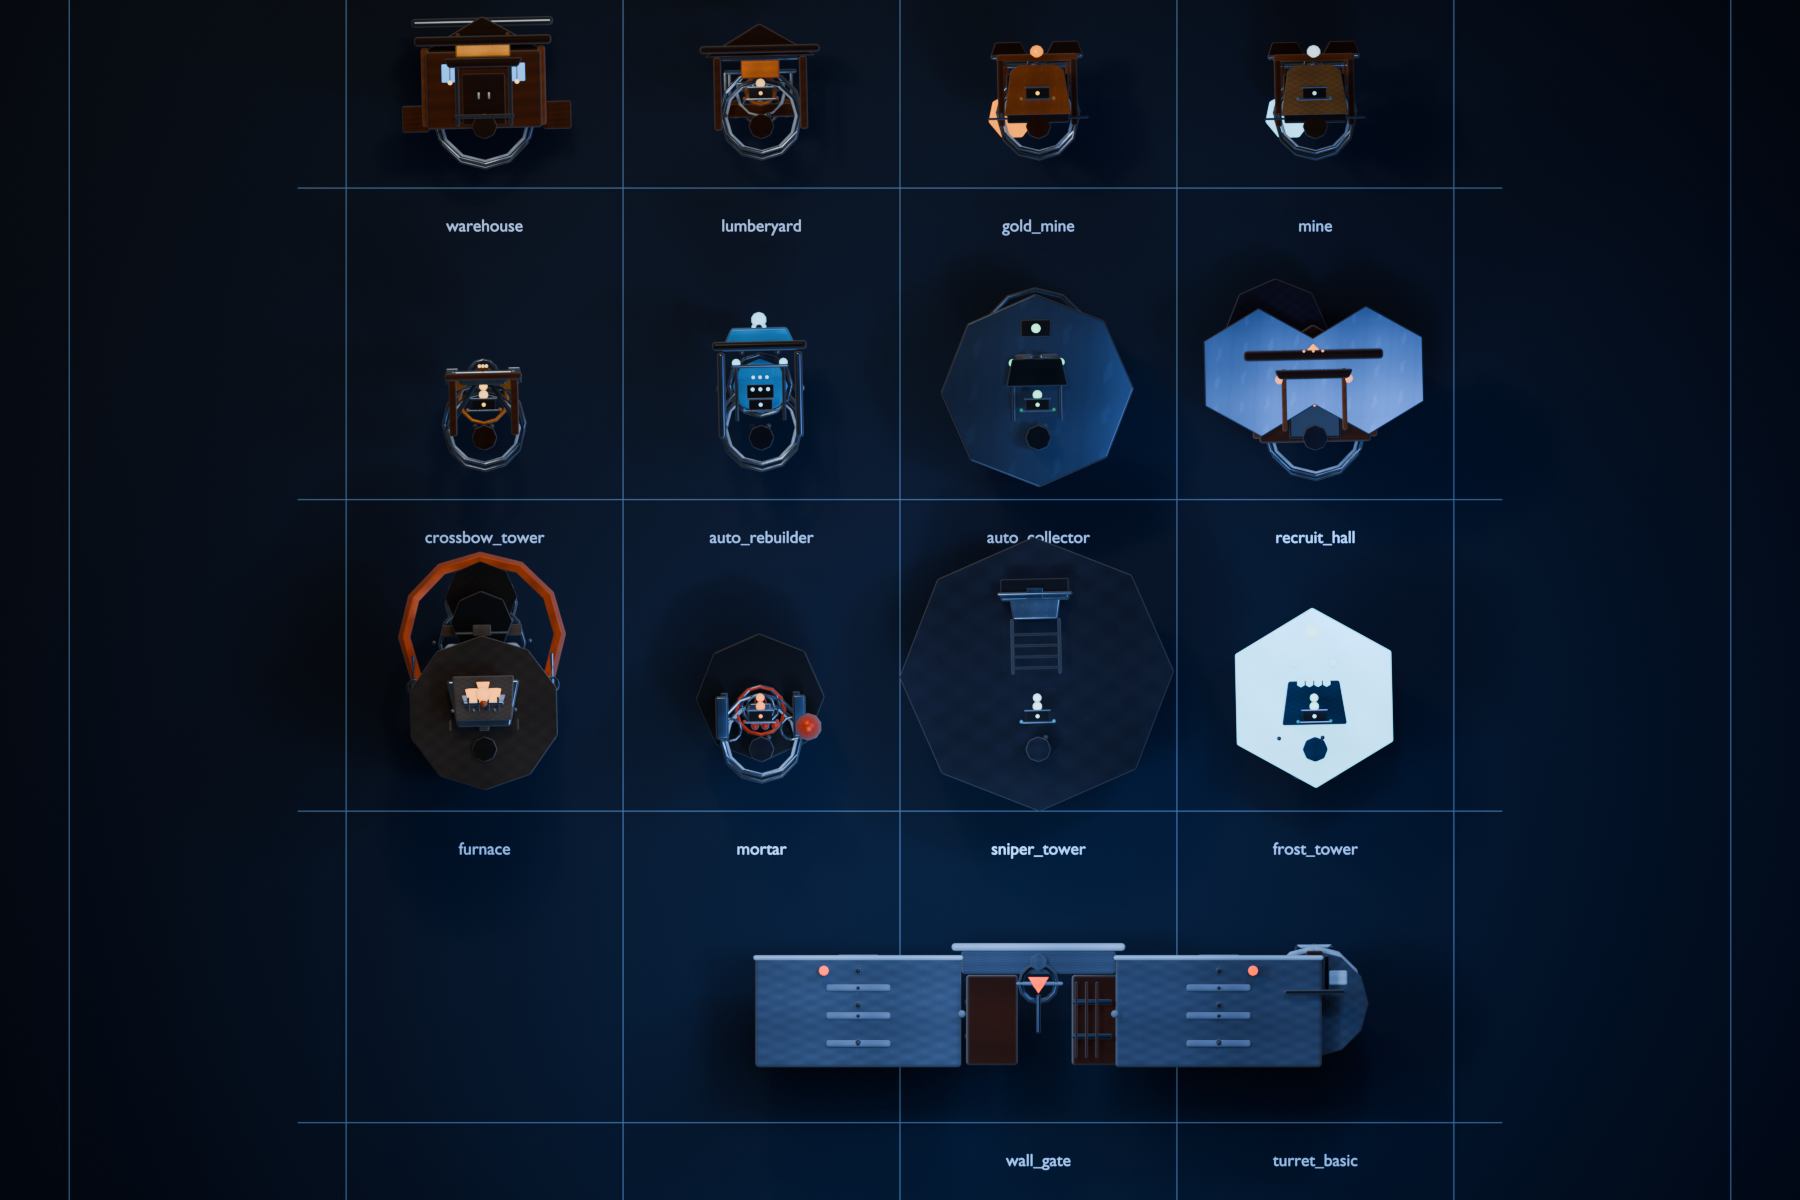
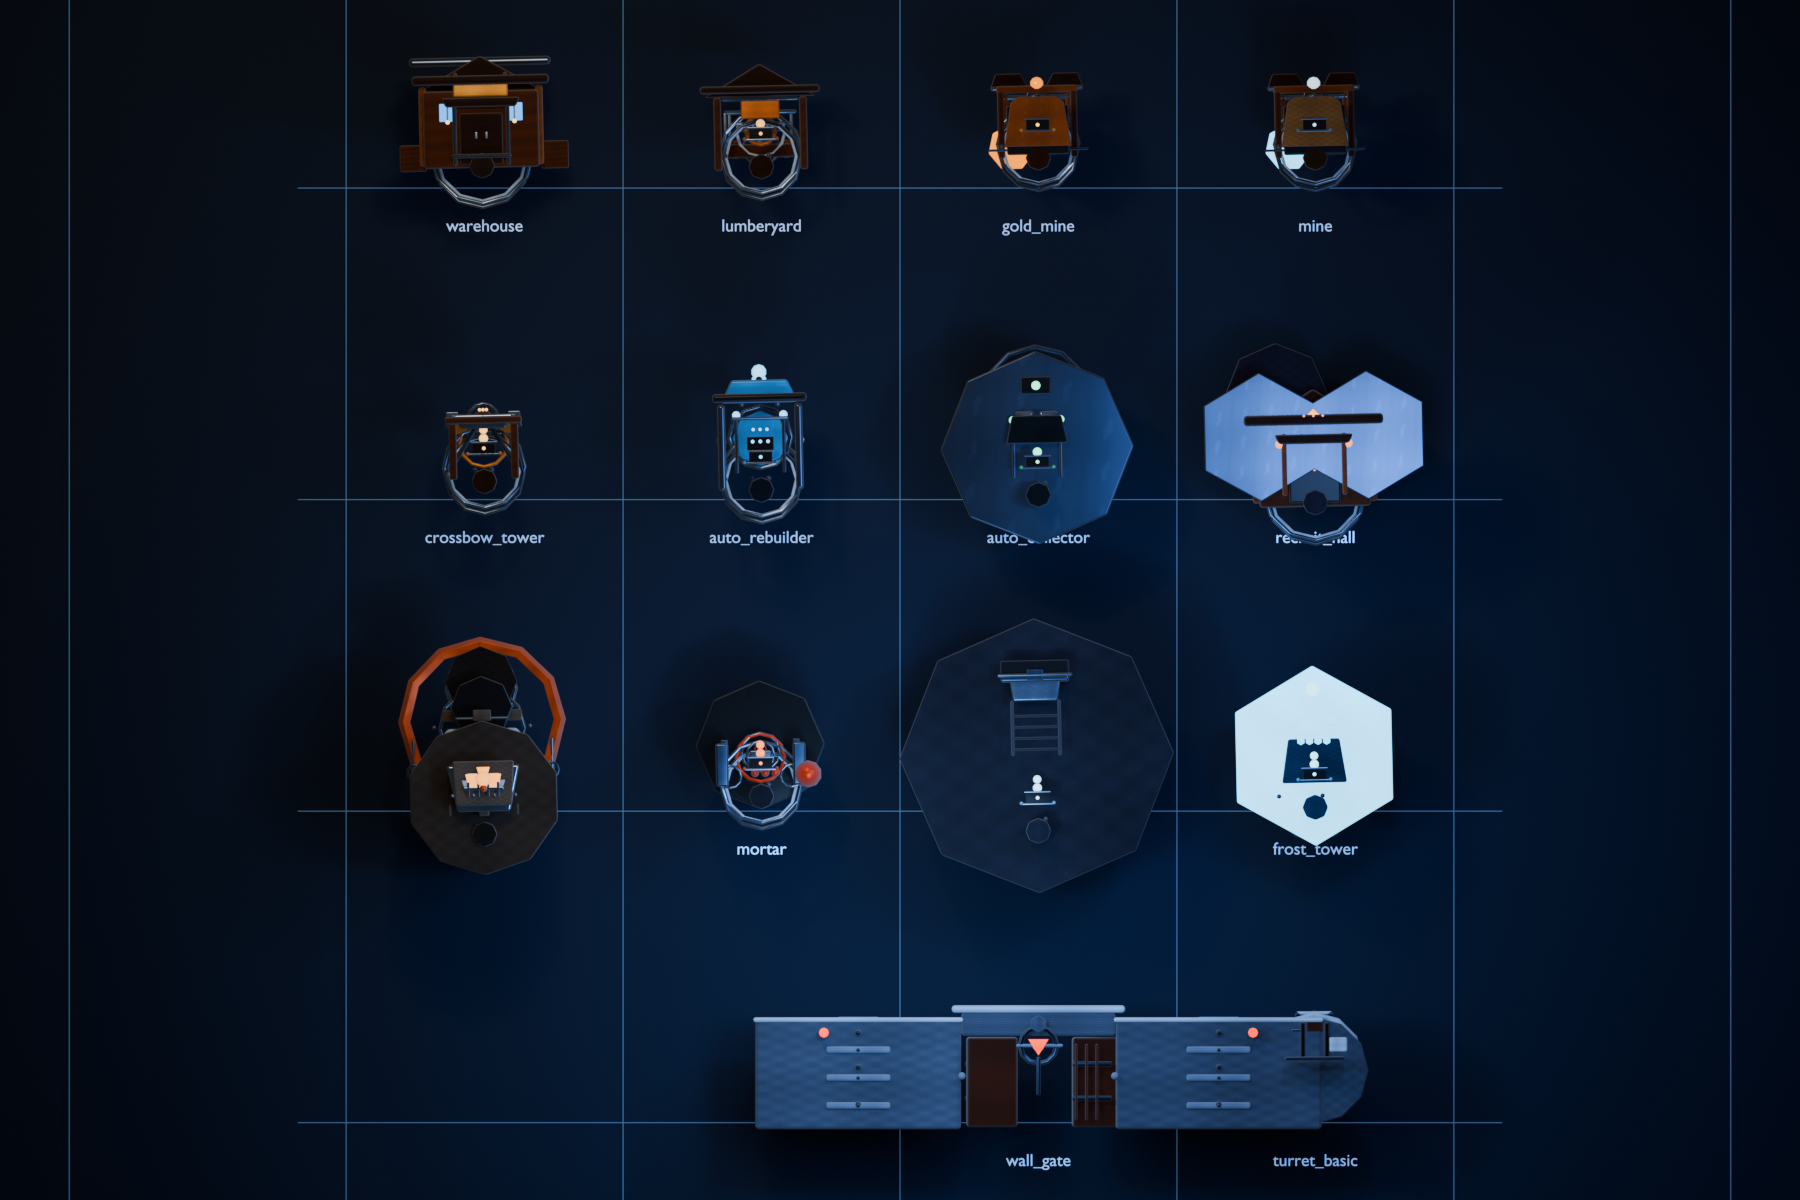
chore: checkpoint visual effects implementation

diff --git a/scripts/blender/render_full_roster_previews.py b/scripts/blender/render_full_roster_previews.py
@@ -139,6 +139,23 @@ def import_asset(path, location, scale):
     before = set(bpy.data.objects)
     bpy.ops.import_scene.gltf(filepath=path)
     imported = [obj for obj in bpy.data.objects if obj not in before]
+    # Some authored roots intentionally carry a gameplay-facing offset. For a
+    # catalogue cell, use the visible LOD0 bounds as the review anchor so a
+    # valid asset cannot appear clipped or in a neighbouring cell.
+    visible_meshes = []
+    for obj in imported:
+        if obj.type != "MESH":
+            continue
+        base_name = obj.name.split(":")[-1]
+        if base_name.startswith("LOD1_PROXY") or base_name.startswith("LOD2_PROXY"):
+            continue
+        visible_meshes.append(obj)
+    bounds = []
+    for obj in visible_meshes:
+        bounds.extend(obj.matrix_world @ Vector(corner) for corner in obj.bound_box)
+    review_center = Vector((0, 0, 0))
+    if bounds:
+        review_center = (Vector((min(point.x for point in bounds), min(point.y for point in bounds), min(point.z for point in bounds))) + Vector((max(point.x for point in bounds), max(point.y for point in bounds), max(point.z for point in bounds)))) * 0.5
     # GLTF exports can contain several top-level mesh objects even when the
     # source scene had a semantic Root empty.  Wrap every top-level imported
     # object in a review-only parent so the complete asset moves as one unit.
@@ -151,7 +168,11 @@ def import_asset(path, location, scale):
         matrix = obj.matrix_world.copy()
         obj.parent = placement
         obj.matrix_world = matrix
-    placement.location = location
+    placement.location = (
+        location[0] - review_center.x * scale,
+        location[1] - review_center.y * scale,
+        location[2] - review_center.z * scale,
+    )
     placement.scale = (scale, scale, scale)
     print(f"PLACED {os.path.basename(path)} objects={len(imported)} top_level={len(top_level)} loc={tuple(round(v, 2) for v in location)}")
     for obj in imported:

diff --git a/reports/art-quality-audit.md b/reports/art-quality-audit.md
@@ -419,3 +419,18 @@ skeleton, seven animations and 14,252 triangles.
 This is a focused silhouette improvement, not a claim that the hero is final
 hand-authored commercial topology; the remaining cloth folds, facial sculpt,
 PBR maps and bespoke animation acting still need human art direction.
+
+## Checkpoint: 2026-08-02 visual-effects implementation
+
+The visual-effects/material expansion was stopped at a safe write boundary.
+The full-roster review script now centers each imported asset from its visible
+mesh bounds, so authored root offsets no longer make `flyingColossus` or
+`turret_basic` appear misleadingly displaced in the QA sheets. The Blender
+startup Cube is cleared before import. Both complete review sheets were
+regenerated and written to `reports/art-previews/`.
+
+This is a QA-only correction: no shipped GLB, runtime transform, new effect
+type, material framework, asset family, or refactor was added at the stop
+boundary. The commercial-art goal remains open for primitive-driven topology,
+hand-authored PBR maps, bespoke animation acting, runtime all-manifest proof,
+and performance profiling.

diff --git a/CHANGELOG.md b/CHANGELOG.md
@@ -389,3 +389,17 @@ commercial art-direction sign-off remain open.
 The commercial-art goal therefore remains open. The next priority is a full
 roster review sheet plus manual-quality focal passes for hero, warrior,
 flyingColossus, furnace and crossbow/turret before claiming display readiness.
+
+## 2026-08-02 | visual-effects implementation checkpoint
+
+- Stopped the visual-effects/material expansion at the safe write boundary.
+- Fixed the full-roster Blender review tool so imported assets are centered by
+  their visible mesh bounds; this removes misleading off-center placement for
+  assets with authored root offsets without changing shipped GLBs or runtime
+  transforms.
+- Re-rendered `reports/art-previews/unit-roster-full.png` and
+  `reports/art-previews/facility-roster-full.png`; the Blender startup Cube is
+  cleared before import and both sheets now show the complete authored roster.
+- No new effect type, material framework, asset family, or refactor was added
+  after this checkpoint. Remaining commercial-art gaps stay documented in the
+  art-quality audit.
